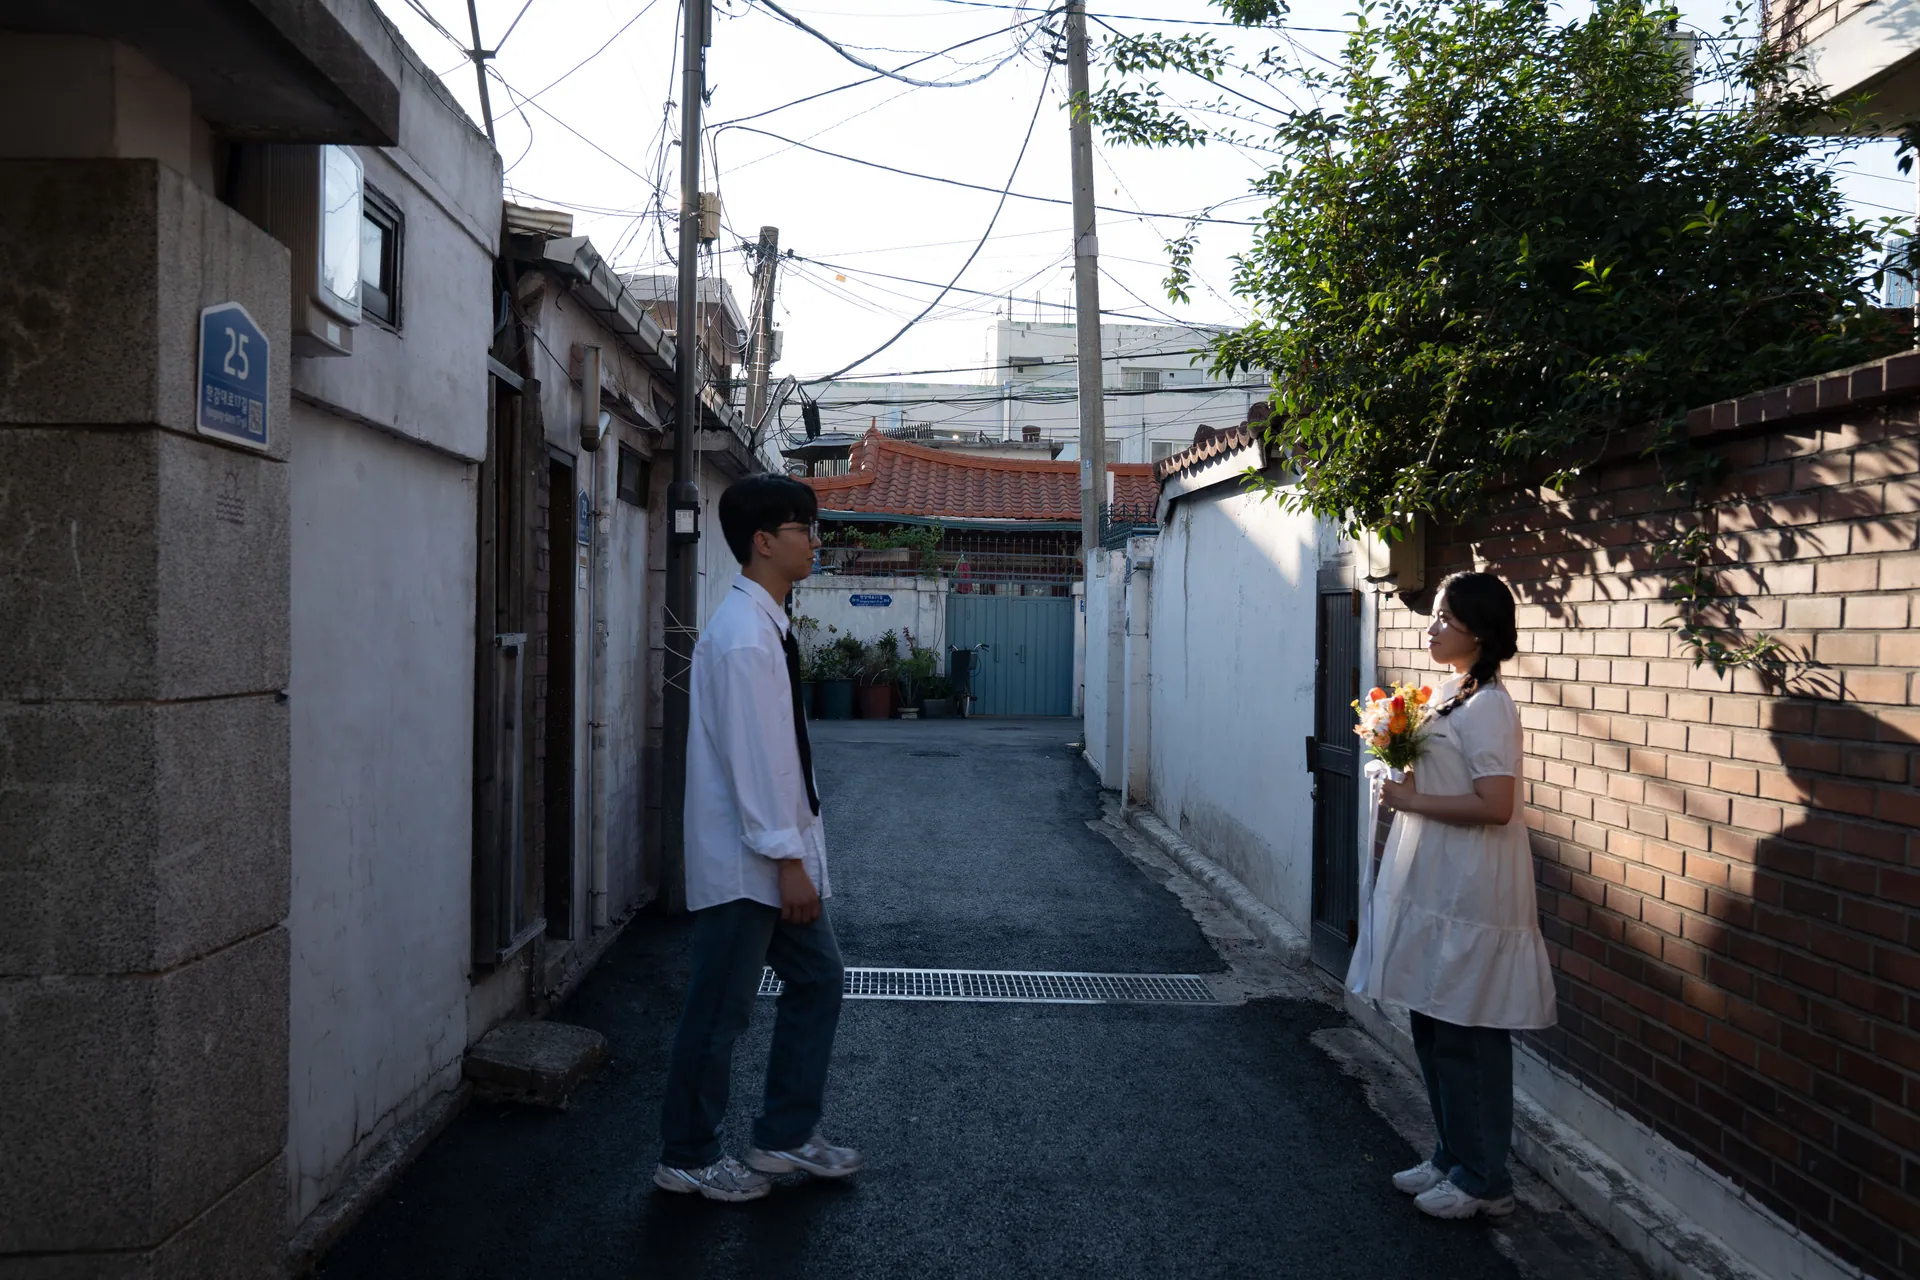
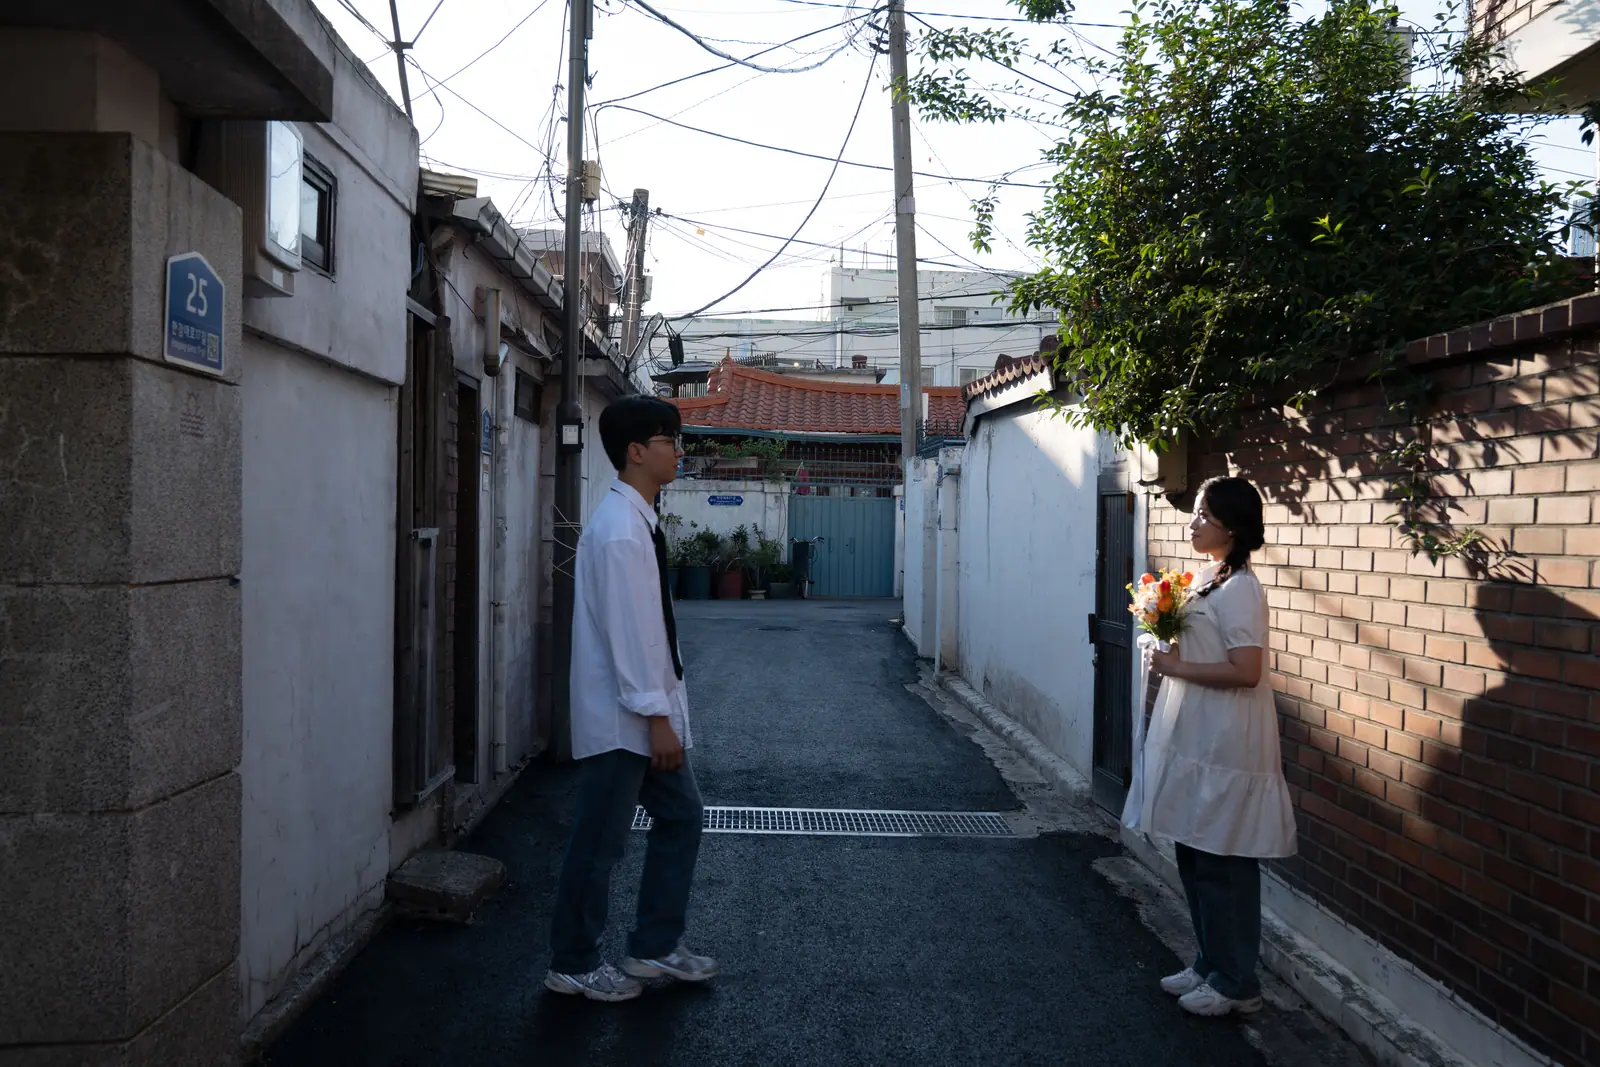
fix: 오프닝 이미지 지연 로딩과 용량 최적화

diff --git a/script.js b/script.js
@@ -30,26 +30,30 @@
     const placeholder = document.createElement("span");
     placeholder.className = kind === "opening" ? "opening__placeholder" : "gallery__placeholder";
     placeholder.textContent = kind === "opening"
-      ? `SCENE ${String(index + 1).padStart(2, "0")} · 사진 준비 중`
+      ? `SCENE ${String(index + 1).padStart(2, "0")} · ${path ? "불러오는 중" : "사진 준비 중"}`
       : `PHOTO ${String(index + 1).padStart(2, "0")}`;
     wrapper.append(placeholder);
 
     if (path) {
-      if (kind === "opening") {
-        const photoUrl = new URL(path, document.baseURI).href;
-        wrapper.style.setProperty("--frame-image", `url(${JSON.stringify(photoUrl)})`);
-      }
       const img = document.createElement("img");
       img.hidden = true;
       img.alt = kind === "opening" ? "" : `두 사람의 사진 ${index + 1}`;
       if (kind === "gallery") img.loading = "lazy";
       if (kind === "opening") img.fetchPriority = index === 0 ? "high" : "low";
       img.addEventListener("load", () => {
+        if (kind === "opening") {
+          const photoUrl = new URL(path, document.baseURI).href;
+          wrapper.style.setProperty("--frame-image", `url(${JSON.stringify(photoUrl)})`);
+        }
         img.hidden = false;
         placeholder.remove();
         wrapper.classList.remove("opening__frame--fallback");
       });
-      img.src = path;
+      img.addEventListener("error", () => {
+        if (kind === "opening") placeholder.textContent = `SCENE ${String(index + 1).padStart(2, "0")} · 사진을 불러올 수 없습니다`;
+      });
+      if (kind === "opening") img.dataset.src = path;
+      else img.src = path;
       wrapper.append(img);
     }
     host.append(wrapper);
@@ -142,15 +146,31 @@
   const links = [...document.querySelectorAll("[data-nav]")];
   let pending = false;
 
+  function loadOpeningFrame(index, highPriority = false) {
+    const image = frames[index]?.querySelector("img[data-src]");
+    if (!image) return;
+    if (highPriority) image.fetchPriority = "high";
+    image.src = image.dataset.src;
+    delete image.dataset.src;
+  }
+
   function updateScroll() {
     pending = false;
     const total = Math.max(1, opening.offsetHeight - window.innerHeight);
-    const progress = Math.min(1, Math.max(0, -opening.getBoundingClientRect().top / total));
+    const openingRect = opening.getBoundingClientRect();
+    const progress = Math.min(1, Math.max(0, -openingRect.top / total));
     const introEnd = Math.min(.5, window.innerHeight * .7 / total);
     const sequenceProgress = Math.min(1, Math.max(0, (progress - introEnd) / (1 - introEnd)));
     const sceneIndex = motionReduced.matches
       ? frames.length - 1
       : Math.min(frames.length - 1, Math.floor(sequenceProgress * frames.length));
+    if (openingRect.bottom > 0 && openingRect.top < window.innerHeight) {
+      loadOpeningFrame(sceneIndex, true);
+      if (!motionReduced.matches) {
+        loadOpeningFrame(sceneIndex + 1);
+        loadOpeningFrame(sceneIndex + 2);
+      }
+    }
     frames.forEach((frame, index) => {
       const visible = index === sceneIndex;
       frame.style.opacity = visible ? "1" : "0";

diff --git a/content.js b/content.js
@@ -16,21 +16,21 @@ window.WEDDING_CONTENT = {
   ],
   // DSC09569.jpg부터 DSC09583.jpg까지, 파일명 순서대로 만든 웹용 사진입니다.
   openingPhotos: [
-    "assets/opening/frames/01.webp",
-    "assets/opening/frames/02.webp",
-    "assets/opening/frames/03.webp",
-    "assets/opening/frames/04.webp",
-    "assets/opening/frames/05.webp",
-    "assets/opening/frames/06.webp",
-    "assets/opening/frames/07.webp",
-    "assets/opening/frames/08.webp",
-    "assets/opening/frames/09.webp",
-    "assets/opening/frames/10.webp",
-    "assets/opening/frames/11.webp",
-    "assets/opening/frames/12.webp",
-    "assets/opening/frames/13.webp",
-    "assets/opening/frames/14.webp",
-    "assets/opening/frames/15.webp"
+    "assets/opening/frames/01.webp?v=2",
+    "assets/opening/frames/02.webp?v=2",
+    "assets/opening/frames/03.webp?v=2",
+    "assets/opening/frames/04.webp?v=2",
+    "assets/opening/frames/05.webp?v=2",
+    "assets/opening/frames/06.webp?v=2",
+    "assets/opening/frames/07.webp?v=2",
+    "assets/opening/frames/08.webp?v=2",
+    "assets/opening/frames/09.webp?v=2",
+    "assets/opening/frames/10.webp?v=2",
+    "assets/opening/frames/11.webp?v=2",
+    "assets/opening/frames/12.webp?v=2",
+    "assets/opening/frames/13.webp?v=2",
+    "assets/opening/frames/14.webp?v=2",
+    "assets/opening/frames/15.webp?v=2"
   ],
   galleryPhotos: ["", "", "", "", "", ""]
 };

diff --git a/index.html b/index.html
@@ -10,8 +10,8 @@
   <link rel="preconnect" href="https://fonts.gstatic.com" crossorigin>
   <link href="https://fonts.googleapis.com/css2?family=DM+Sans:wght@400;500;600&family=Gowun+Batang:wght@400;700&display=swap" rel="stylesheet">
   <link rel="stylesheet" href="styles.css">
-  <script src="content.js" defer></script>
-  <script src="script.js" defer></script>
+  <script src="content.js?v=2" defer></script>
+  <script src="script.js?v=2" defer></script>
 </head>
 <body>
   <a class="skip-link" href="#contents">본문으로 건너뛰기</a>

diff --git a/README.md b/README.md
@@ -14,6 +14,8 @@
 
 원본 JPG는 `assets/opening/`에 보관하고 Git에서는 제외합니다. 웹용 사본은 `assets/opening/frames/01.webp`부터 `15.webp`까지이며, 공개되는 저장소에는 이 최적화된 사진이 포함됩니다. 사진을 추가하거나 순서를 바꾸면 웹용 사본과 `openingPhotos` 목록을 함께 수정하세요.
 
+첫 화면에서는 현재 사진과 다음 두 장만 먼저 불러오고, 스크롤에 맞춰 뒤쪽 사진을 요청합니다. 사진을 다시 최적화해 같은 파일명으로 배포할 때는 `content.js`의 `?v=` 값을 올려 기존 브라우저 캐시를 갱신하세요.
+
 사진첩은 `assets/gallery/`에 사진을 넣고 `galleryPhotos`의 경로를 바꾸면 됩니다. 세로 사진을 권장하며, 웹에 맞게 크기와 용량을 줄여 주세요.
 
 ## 배포
